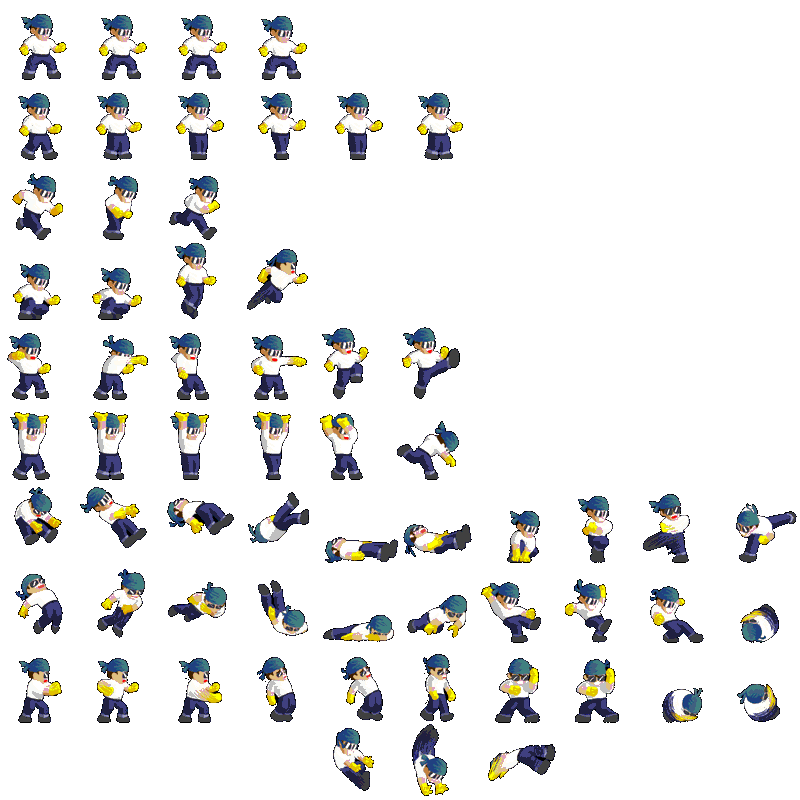
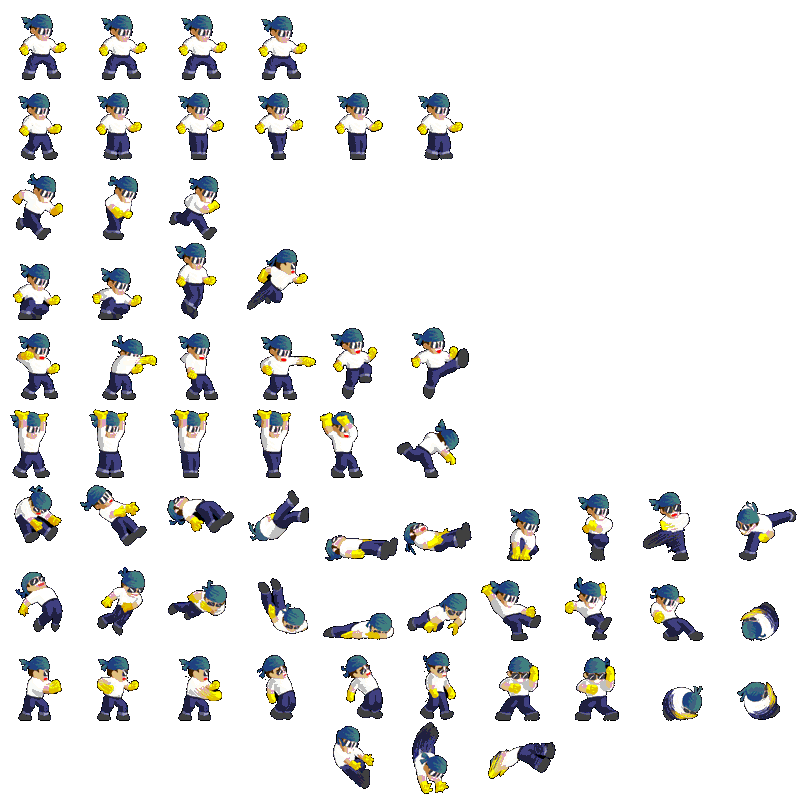
- Difficulty toegevoegd (met speciale kleurtjes in het optiemenu) - "terug gaan" in de optie "character" gefixed - DeathScreen toegevoegd - Death animatie toegevoegd, met een timer tot de DeathScreen

diff --git a/Prototype/Prototype/Character.cs b/Prototype/Prototype/Character.cs
@@ -28,7 +28,7 @@ namespace Prototype
         const int sourceHeight = 80; //Hoogte van character in player.png      
         static Vector2 startPos = new Vector2(300, 300);
         public static Rectangle bounds = new Rectangle((int)startPos.X, (int)startPos.Y, boundsWidth, boundsHeight); //Positie en grootte van character
-        Rectangle source = new Rectangle(0, 0, sourceWidth, sourceHeight); //Bepaalt welk gedeelte van player.png wordt getoond
+        public static Rectangle source = new Rectangle(0, 0, sourceWidth, sourceHeight); //Bepaalt welk gedeelte van player.png wordt getoond
         public static Rectangle feetBounds = new Rectangle(bounds.X, bounds.Y + 50, 80, 30);
 
         public enum facing
@@ -48,7 +48,8 @@ namespace Prototype
             jumping,
             falling,
             picking,
-            shooting
+            shooting,
+            dead
         }
         public static state currentState = state.standing;
 
@@ -156,7 +157,10 @@ namespace Prototype
                         {
                             if (currentKeyboardState.IsKeyDown(Keys.Space) && !previousKeyboardState.IsKeyDown(Keys.Space))
                             {
-                                Game1.AddProjectile(new Vector2(bounds.X, bounds.Y + sourceHeight / 2));
+                                if (currentFacing == facing.left)
+                                    Game1.AddProjectile(new Vector2(bounds.X, bounds.Y + sourceHeight / 2));
+                                else
+                                    Game1.AddProjectile(new Vector2(bounds.X + source.Width, bounds.Y + sourceHeight / 2));
 
                                 //currentState = state.shooting;
                                 shootingTimer = 0;
@@ -266,8 +270,7 @@ namespace Prototype
 
 
         private void shoot()
-        {
-            
+        {            
                 if (frameCount % delay == 0) //Eens in de <delay-waarde> frames
                 {
                     frameCount = 1 * delay;
@@ -275,7 +278,6 @@ namespace Prototype
 
                     frameCount++;
                     shootingDurance++;
-
 
                     if (shootingDurance > 5)
                     {
@@ -509,9 +511,21 @@ namespace Prototype
                         if (gun != null) //als character bij een gun staat
                         {
                             carryingGun = true;
+                            gun.picked = true;
                         }
 
                         break;
+
+                    case state.dead:
+                        platform = game.GetIntersectingPlatform(feetBounds);
+
+                        speed = 0;
+
+                        if (frameCount / delay >= 5)
+                            frameCount = 5 * delay;
+
+                        source = new Rectangle(frameCount / delay * 80, 6 * 80, sourceWidth, sourceHeight);
+                                break;
 
                     //case state.shooting:
                     //    shootingDurance += 1;

diff --git a/Prototype/Prototype/health.cs b/Prototype/Prototype/health.cs
@@ -56,17 +56,14 @@ namespace Prototype
         public override void Update(GameTime gameTime)
         {
             // TODO: Add your update code here
-            if (enemies.alive && Character.bounds.X < enemies.dimensions.X + enemies.dimensions.Width && Character.bounds.Y + Character.bounds.Height > enemies.dimensions.Y + 10 && Character.bounds.X + Character.bounds.Width > enemies.dimensions.X && Character.bounds.Y < enemies.dimensions.Y + enemies.dimensions.Height)
+            if (Enemy.alive && Character.bounds.X < Enemy.boundingBox.X + Enemy.boundingBox.Width && Character.bounds.Y + Character.bounds.Height > Enemy.boundingBox.Y + 10 && Character.bounds.X + Character.bounds.Width > Enemy.boundingBox.X && Character.bounds.Y < Enemy.boundingBox.Y + Enemy.boundingBox.Height)
             {
                 lifes -= 1;
-                if ((Character.bounds.X + Character.bounds.Width) - (enemies.dimensions.X + enemies.dimensions.Width) > 0)
+                if ((Character.bounds.X + Character.bounds.Width) - (Enemy.boundingBox.X + Enemy.boundingBox.Width) > 0)
                     Character.bounds.X += 50;
                 else
                     Character.bounds.X -= 50;
             }
-
-            if (lifes <= 0)
-                Character.respawn();
 
             base.Update(gameTime);
         }

diff --git a/Prototype/Prototype/score.cs b/Prototype/Prototype/score.cs
@@ -61,7 +61,8 @@ namespace Prototype
             SpriteBatch spriteBatch = Game.Services.GetService(typeof(SpriteBatch)) as SpriteBatch;
 
             spriteBatch.Begin();
-            spriteBatch.DrawString(font, "Score: " + currentScore, new Vector2(health.startLifes * health.width, 0), Color.White);
+            spriteBatch.DrawString(font, "Score: " + currentScore, new Vector2(0, 20), Color.White);
+            //Eerst: "health.startLifes * health.width als" X
             spriteBatch.End();
             
             base.Draw(gameTime);

diff --git a/Prototype/Prototype/Scrollen.cs b/Prototype/Prototype/Scrollen.cs
@@ -91,7 +91,7 @@ namespace Prototype
                 Character.bounds.Y = GraphicsDevice.Viewport.Height - marge - Character.bounds.Height;
             }
 
-            enemies.dimensions = new Rectangle(Game1.platforms[4].boundingBox.X + enemies.distance, Game1.platforms[4].boundingBox.Y - enemies.source.Height, 85, 70);
+            Enemy.boundingBox = new Rectangle(Game1.platforms[4].boundingBox.X + Enemy.distance, Game1.platforms[4].boundingBox.Y - Enemy.source.Height, 85, 70);
 
             base.Update(gameTime);
         }
